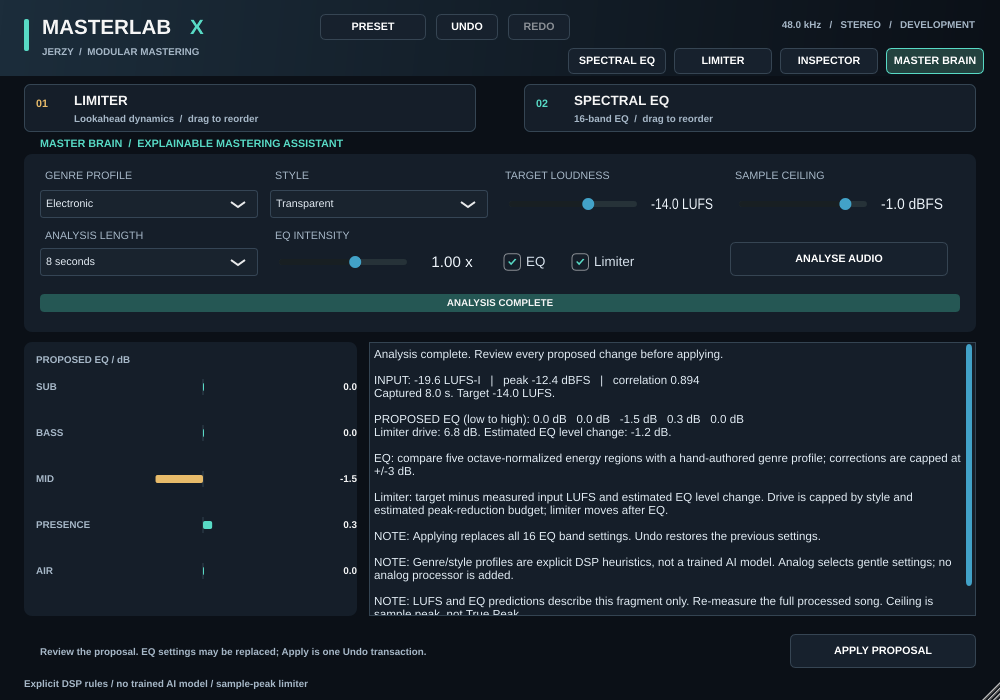
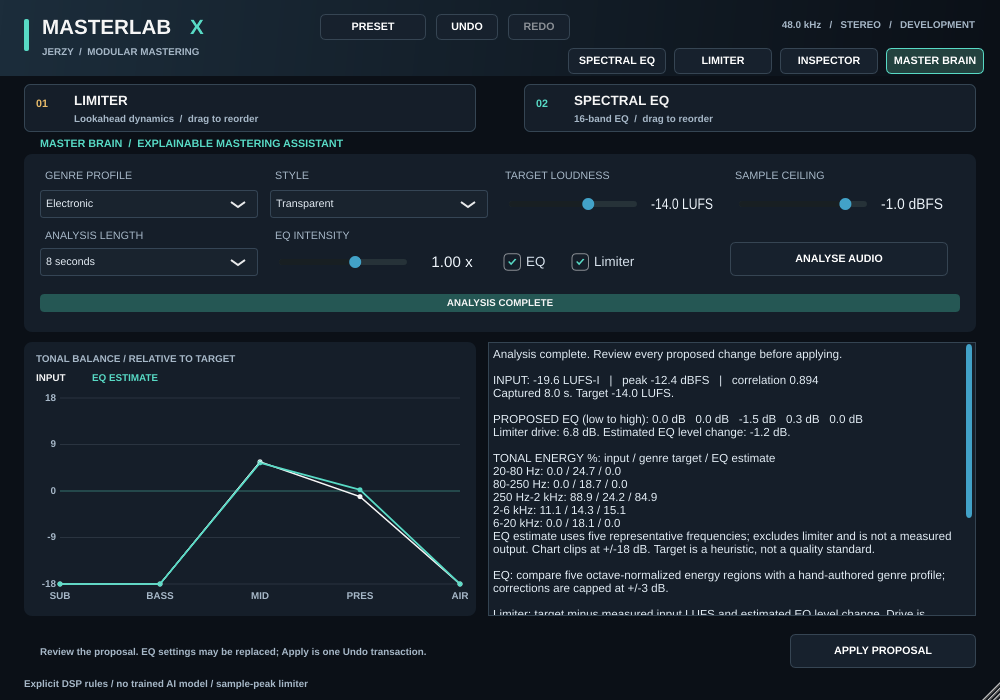
Add measured tonal balance and DSP-verified EQ estimate to Master Brain

diff --git a/Source/Editor.h b/Source/Editor.h
@@ -69,6 +69,12 @@ class Editor final : public juce::AudioProcessorEditor,
             report+="\nINPUT: "+lufsText(f.integrated)+" LUFS-I   |   peak "+dbText(f.peak)+" dBFS   |   correlation "+juce::String(f.correlation,3)+"\n";
             report+="Captured "+juce::String(f.seconds,1)+" s. Target "+juce::String(snapshot.config.targetLufs,1)+" LUFS.\n";
             if(p.valid){report+="\nPROPOSED EQ (low to high): ";for(float gain:p.gains)report+=juce::String(gain,1)+" dB   ";report+="\nLimiter drive: "+juce::String(p.drive,1)+" dB. Estimated EQ level change: "+juce::String(p.eqEstimate,1)+" dB.\n";}
+            if(p.targetShares[0]>0){
+                report+="\nTONAL ENERGY %: input / genre target / EQ estimate\n";
+                constexpr std::array<const char*,5> regions{"20-80 Hz","80-250 Hz","250 Hz-2 kHz","2-6 kHz","6-20 kHz"};
+                for(size_t i=0;i<5;++i)report+=juce::String(regions[i])+": "+juce::String(100*p.shares[i],1)+" / "+juce::String(100*p.targetShares[i],1)+" / "+juce::String(100*p.estimatedShares[i],1)+"\n";
+                report+="EQ estimate uses five representative frequencies; excludes limiter and is not a measured output. Chart clips at +/-18 dB. Target is a heuristic, not a quality standard.\n";
+            }
             for(const auto& line:p.reasons)report+="\n"+juce::String(line)+"\n";
             for(const auto& line:p.warnings)report+="\nNOTE: "+juce::String(line)+"\n";
             if(stale&&snapshot.phase==masterlab::BrainPhase::Ready)report="SETTINGS CHANGED: reanalyse before Apply.\n\n"+report;
@@ -82,19 +88,27 @@ class Editor final : public juce::AudioProcessorEditor,
         g.setColour(juce::Colour(0xff0a1119));g.fillRoundedRectangle(40.f,294.f,getWidth()-80.f,18.f,4.f);
         if(brainProgress>0){g.setColour(accent.withAlpha(.35f));g.fillRoundedRectangle(40.f,294.f,static_cast<float>((getWidth()-80)*brainProgress),18.f,4.f);}
         g.setColour(juce::Colours::whitesmoke);g.setFont(11);g.drawText(brainProgressText,40,294,getWidth()-80,18,juce::Justification::centred);
-        const int cardWidth=std::clamp(getWidth()/3,218,360),cardHeight=getHeight()-426;
+        const int cardWidth=std::clamp(getWidth()/2-48,300,600),cardHeight=getHeight()-426;
         g.setColour(panel);g.fillRoundedRectangle(24.f,342.f,static_cast<float>(cardWidth),static_cast<float>(cardHeight),8.f);
-        g.setColour(muted);g.setFont(11);g.drawText("PROPOSED EQ / dB",36,350,cardWidth-24,20,juce::Justification::left);
-        const bool valid=brainSnapshot.proposal.valid&&(brainSnapshot.phase==masterlab::BrainPhase::Ready||brainSnapshot.phase==masterlab::BrainPhase::Applied)&&brainSnapshot.config.useEq;
+        g.setColour(muted);g.setFont(11);g.drawText("TONAL BALANCE / RELATIVE TO TARGET",36,350,cardWidth-24,18,juce::Justification::left);
+        const bool valid=(brainSnapshot.phase==masterlab::BrainPhase::Ready||brainSnapshot.phase==masterlab::BrainPhase::Applied)&&brainSnapshot.proposal.targetShares[0]>0;
         if(valid){
-            constexpr std::array<const char*,5> names{"SUB","BASS","MID","PRESENCE","AIR"};
-            for(int i=0;i<5;++i){const int y=378+i*(cardHeight-43)/5;const float value=brainSnapshot.proposal.gains[static_cast<size_t>(i)],centre=24.f+83.f+(cardWidth-141.f)/2.f,extent=value*(cardWidth-141.f)/6.f;
-                g.setColour(muted);g.drawText(names[static_cast<size_t>(i)],36,y,66,18,juce::Justification::left);
-                g.setColour(juce::Colour(0xff344452));g.drawLine(centre,y+1.f,centre,y+17.f);
-                g.setColour(value>=0?accent:curve);g.fillRoundedRectangle(std::min(centre,centre+extent),y+5.f,std::max(1.f,std::abs(extent)),8.f,2.f);
-                g.setColour(juce::Colours::whitesmoke);g.drawText(juce::String(value,1),cardWidth-24,y,48,18,juce::Justification::right);
+            g.setColour(juce::Colours::whitesmoke);g.drawText("INPUT",36,370,54,16,juce::Justification::left);
+            g.setColour(accent);g.drawText("EQ ESTIMATE",92,370,94,16,juce::Justification::left);
+            const float left=60.f,right=cardWidth+8.f,top=398.f,bottom=342.f+cardHeight-32.f;
+            auto yFor=[&](double db){return juce::jmap(static_cast<float>(std::clamp(db,-18.,18.)), -18.f,18.f,bottom,top);};
+            for(int db:{-18,-9,0,9,18}){const float y=yFor(db);g.setColour(db==0?accent.withAlpha(.45f):muted.withAlpha(.15f));g.drawLine(left,y,right,y);g.setColour(muted);g.drawText(juce::String(db),30,static_cast<int>(y)-7,26,14,juce::Justification::right);}
+            juce::Path measured,estimated;
+            constexpr std::array<const char*,5> names{"SUB","BASS","MID","PRES","AIR"};
+            for(size_t i=0;i<5;++i){const float x=left+(right-left)*static_cast<float>(i)/4.f;const auto& proposal=brainSnapshot.proposal;
+                const double target=std::max(1e-20f,proposal.targetShares[i]);
+                const float measuredY=yFor(10*std::log10(std::max(1e-20f,proposal.shares[i])/target)),estimatedY=yFor(10*std::log10(std::max(1e-20f,proposal.estimatedShares[i])/target));
+                if(i==0){measured.startNewSubPath(x,measuredY);estimated.startNewSubPath(x,estimatedY);}else{measured.lineTo(x,measuredY);estimated.lineTo(x,estimatedY);}
+                g.setColour(juce::Colours::whitesmoke);g.fillEllipse(x-2.5f,measuredY-2.5f,5.f,5.f);g.setColour(accent);g.fillEllipse(x-2.5f,estimatedY-2.5f,5.f,5.f);
+                g.setColour(muted);g.drawText(names[i],static_cast<int>(x)-21,static_cast<int>(bottom)+5,42,14,juce::Justification::centred);
             }
-        }else{g.setColour(muted);g.drawFittedText(brainSnapshot.config.useEq?"Awaiting analysis":"Current EQ preserved",36,382,cardWidth-24,cardHeight-48,juce::Justification::centred,2);}
+            g.setColour(juce::Colours::whitesmoke);g.strokePath(measured,juce::PathStrokeType(1.5f));g.setColour(accent);g.strokePath(estimated,juce::PathStrokeType(1.8f));
+        }else{g.setColour(muted);g.drawFittedText("Play audio and analyse to measure five frequency regions.",36,382,cardWidth-24,cardHeight-48,juce::Justification::centred,3);}
         g.setColour(muted);g.setFont(11);g.drawText("Review the proposal. EQ settings may be replaced; Apply is one Undo transaction.",40,getHeight()-66,getWidth()-280,36,juce::Justification::left);
         g.drawText("Explicit DSP rules / no trained AI model / sample-peak limiter",24,getHeight()-25,getWidth()-48,18,juce::Justification::left);
     }
@@ -384,7 +398,7 @@ public:
         for(int i=0;i<4;++i)brainLabels[static_cast<size_t>(i)].setBounds(40+i*brainCell,166,brainCell-12,20);
         brainGenre.setBounds(40,190,brainCell-12,28);brainStyle.setBounds(40+brainCell,190,brainCell-12,28);brainTarget.setBounds(40+2*brainCell,190,brainCell-12,28);brainCeiling.setBounds(40+3*brainCell,190,brainCell-12,28);
         brainLabels[4].setBounds(40,226,brainCell-12,20);brainLabels[5].setBounds(40+brainCell,226,brainCell-12,20);brainDuration.setBounds(40,248,brainCell-12,28);brainIntensity.setBounds(40+brainCell,248,brainCell-12,28);
-        brainEq.setBounds(40+2*brainCell,248,64,28);brainLimiter.setBounds(108+2*brainCell,248,brainCell-80,28);brainAnalyse.setBounds(40+3*brainCell,242,brainCell-12,34);const int resultWidth=std::clamp(getWidth()/3,218,360);brainReport.setBounds(36+resultWidth,342,getWidth()-60-resultWidth,getHeight()-426);brainApply.setBounds(getWidth()-210,getHeight()-66,186,34);
+        brainEq.setBounds(40+2*brainCell,248,64,28);brainLimiter.setBounds(108+2*brainCell,248,brainCell-80,28);brainAnalyse.setBounds(40+3*brainCell,242,brainCell-12,34);const int resultWidth=std::clamp(getWidth()/2-48,300,600);brainReport.setBounds(36+resultWidth,342,getWidth()-60-resultWidth,getHeight()-426);brainApply.setBounds(getWidth()-210,getHeight()-66,186,34);
         const int top=getHeight()-163,width=(getWidth()-64)/4;
         for(int i=0;i<4;++i){auto* label=std::array<juce::Label*,4>{&frequencyLabel,&gainLabel,&qualityLabel,&ceilingLabel}[i];auto* slider=std::array<juce::Slider*,4>{&frequency,&gain,&quality,&ceiling}[i];label->setBounds(32+i*width,top,width-12,22);slider->setBounds(32+i*width,top+22,width-16,113);}
         driveLabel.setBounds(32,top,width-12,22);drive.setBounds(32,top+22,width-16,113);

diff --git a/tests/BrainRulesTests.cpp b/tests/BrainRulesTests.cpp
@@ -20,5 +20,25 @@ int main(){
  invalid=f;invalid.integrated=-8;check(masterlab::proposeMastering(invalid,c).drive==0,"loud input creates additional drive");
  invalid=f;invalid.correlation=-1;invalid.clips=100;check(masterlab::proposeMastering(invalid,c).warnings.size()>=4,"phase and clipping warnings missing");
  c.useEq=false;c.existingEqEnabled=false;auto flat=masterlab::proposeMastering(f,c);c.existingEqEnabled=true;c.existingEq[0].gain=6;auto coloured=masterlab::proposeMastering(f,c);check(coloured.eqEstimate>flat.eqEstimate,"preserved EQ omitted from level estimate");
+ // Validate tonal estimates against rendered sine energy, independently of magnitude().
+ for(double rate:{44100.,48000.,96000.,192000.}){
+  c={};c.useLimiter=false;f.rate=rate;const auto proposal=masterlab::proposeMastering(f,c);
+  double inputSum=0,targetSum=0,estimateSum=0;for(size_t i=0;i<5;++i){inputSum+=proposal.shares[i];targetSum+=proposal.targetShares[i];estimateSum+=proposal.estimatedShares[i];}
+  check(std::abs(inputSum-1)<1e-6&&std::abs(targetSum-1)<1e-6&&std::abs(estimateSum-1)<1e-6,"tonal energy shares are not normalized");
+  std::array<double,5> energies{};double renderedSum=0;
+  constexpr std::array<double,5> centres{40,140,700,3500,11000};
+  for(size_t region=0;region<5;++region){
+   std::array<masterlab::Biquad,5> filters;
+   for(size_t band=0;band<5;++band){const auto suffix=std::to_string(band+1),parameterSuffix=band? suffix:std::string{};
+    filters[band].configure(rate,value(proposal,"frequency"+parameterSuffix),value(proposal,"gain"+parameterSuffix),value(proposal,"q"+parameterSuffix),static_cast<masterlab::FilterType>(static_cast<int>(value(proposal,"bandType"+suffix))));}
+   double input=0,output=0;const int samples=static_cast<int>(rate);
+   for(int i=0;i<samples*2;++i){const float signal=static_cast<float>(.1*std::sin(6.283185307179586*centres[region]*i/rate));float processed=signal;
+    for(size_t band=0;band<5;++band)if(value(proposal,"bandEnabled"+std::to_string(band+1))>0)processed=filters[band].tick(processed);
+    if(i>=samples){input+=signal*signal;output+=processed*processed;}}
+   energies[region]=f.energy[region]*output/input;renderedSum+=energies[region];
+  }
+  for(size_t i=0;i<5;++i)check(std::abs(energies[i]/renderedSum-proposal.estimatedShares[i])<.0002,"EQ tonal estimate differs from rendered filter energy");
+  c.useEq=false;c.existingEqEnabled=false;const auto unchanged=masterlab::proposeMastering(f,c);for(size_t i=0;i<5;++i)check(std::abs(unchanged.shares[i]-unchanged.estimatedShares[i])<1e-6,"excluded flat EQ changes predicted balance");
+ }
  std::cout<<"Passed: 108 profile/style/intensity cases, finite unique settings, caps, excluded modules, silence/short/NaN rejection, existing EQ, clipping and phase warnings\n";
 }

diff --git a/Source/BrainRules.h b/Source/BrainRules.h
@@ -16,7 +16,7 @@ struct BrainFeatures {
 };
 struct BrainProposal {
  bool valid=false;std::vector<std::pair<std::string,float>> changes;
- std::array<float,5> gains{},shares{};float drive=0,eqEstimate=0;
+ std::array<float,5> gains{},shares{},targetShares{},estimatedShares{};float drive=0,eqEstimate=0;
  std::vector<std::string> reasons,warnings;
 };
 inline constexpr std::array<const char*,9> brainGenres{"Rock","Punk","Post-Punk","Dark Wave","Electronic","Techno","Ambient","Pop","Acoustic"};
@@ -37,7 +37,7 @@ inline BrainProposal proposeMastering(const BrainFeatures& f,BrainConfig config)
  const std::array<float,5> frequencies{70,180,800,3500,9000},qualities{.7071f,.8f,.65f,.7f,.7071f};
  const std::array<int,5> types{1,0,0,0,2};
  for(size_t i=0;i<5;++i){
-  double desired=target[i]/totalTarget;
+  double desired=target[i]/totalTarget;p.targetShares[i]=static_cast<float>(desired);
   if(p.shares[i]>1e-5&&desired>1e-5){double deviation=10*std::log10(p.shares[i]/desired);float correction=std::abs(deviation)>1?static_cast<float>(-.35*deviation):0;
    const float styleScale=std::array<float,4>{.75f,.85f,1.f,.65f}[c.style];p.gains[i]=std::clamp(correction*c.intensity*styleScale,-3.f,3.f);
   }
@@ -54,13 +54,16 @@ inline BrainProposal proposeMastering(const BrainFeatures& f,BrainConfig config)
  const std::array<double,5> centres{40,140,700,3500,11000};double predicted=0;float positiveBoost=0;
  for(size_t region=0;region<5;++region){double amplitude=1;
   for(size_t band=0;band<(c.useEq?5:16);++band){
+   if(c.useEq&&std::abs(p.gains[band])<=.01f)continue;
    if(!c.useEq&&(!c.existingEqEnabled||!c.existingEq[band].enabled))continue;
    Biquad filter;float gain=c.useEq?p.gains[band]:c.existingEq[band].gain;
    filter.configure(f.rate,c.useEq?frequencies[band]:c.existingEq[band].frequency,gain,c.useEq?qualities[band]:c.existingEq[band].q,static_cast<FilterType>(c.useEq?types[band]:c.existingEq[band].type));
    amplitude*=filter.magnitude(f.rate,std::min(centres[region],f.rate*.45));positiveBoost=std::max(positiveBoost,std::max(0.f,gain));
   }
-  predicted+=f.energy[region]*amplitude*amplitude;
+  const double regionEnergy=f.energy[region]*amplitude*amplitude;
+  p.estimatedShares[region]=static_cast<float>(regionEnergy/sum);predicted+=regionEnergy;
  }
+ for(auto& share:p.estimatedShares)share=static_cast<float>(share/(predicted/sum));
  p.eqEstimate=static_cast<float>(10*std::log10(std::max(1e-20,predicted/sum)));
  if(c.useLimiter){
   const float wanted=c.targetLufs-f.integrated-p.eqEstimate;

diff --git a/tests/GuiSmoke.h b/tests/GuiSmoke.h
@@ -105,7 +105,7 @@ class GuiSmoke final : private juce::Timer {
         }
         auto* brain=dynamic_cast<juce::Button*>(editor->findChildWithID("view-brain"));auto* apply=dynamic_cast<juce::Button*>(editor->findChildWithID("brain-apply"));auto* report=dynamic_cast<juce::TextEditor*>(editor->findChildWithID("brain-report"));
         if(!brain||!apply||!report)return false;brain->onClick();
-        if(!apply->isEnabled()||!report->getText().contains("PROPOSED EQ")){std::cerr<<report->getText()<<'\n';return false;}
+        if(!apply->isEnabled()||!report->getText().contains("PROPOSED EQ")||!report->getText().contains("TONAL ENERGY %")){std::cerr<<report->getText()<<'\n';return false;}
         for(int i=0;i<processor.getParameters().size();++i)if(processor.getParameters()[i]->getValue()!=brainBefore[static_cast<size_t>(i)])return false;
         for(auto size:{juce::Point<int>(750,550),juce::Point<int>(1000,700),juce::Point<int>(2000,1400)}){
             editor->setSize(size.x,size.y);if(!controlsFit())return false;auto image=editor->createComponentSnapshot(editor->getLocalBounds());if(!image.isValid())return false;

diff --git a/OZONE12_REVIEW.md b/OZONE12_REVIEW.md
@@ -187,3 +187,11 @@ Oceny typu „najlepszy”, „naturalny” i „muzycznie brzmiący” należą
 | 6 | Stem Processor i rekonstrukcja dynamiki | Najpierw wykonalność, licencja modelu, koszt obliczeń i jawne testy artefaktów; osobne procesory z własnymi kryteriami |
 
 Obecny Master Brain realizuje pomiar fragmentu i zatwierdzane heurystyki EQ/limitera. Nie realizuje pełnego Master Assistant Ozone, dopasowania szerokości/dynamiki, korekcji wokalu, Stem EQ ani nauczonego modelu.
+
+## Pełne napisy filmu producenta
+
+Przeczytano cały przesłany plik angielskich napisów „What's new in Ozone 12, your complete mastering suite”. Potwierdza on: separację źródeł w czasie rzeczywistym w Stem EQ; progi, Punch, Balance i wskaźniki sweet spot w Bass Control; sieci neuronowe do tworzenia transjentów w Unlimiter; nowy tryb IRC5; Custom Flow z wyborem gatunków/ulubionych lub profilu z referencji, celu LUFS, modułów, intensywności, czasu analizy oraz zapisu konfiguracji domyślnej. Po analizie można edytować łańcuch z widoku asystenta i modułów.
+
+Deklaracje producenta o braku pompowania/zniekształceń i „odzyskaniu” transjentów są marketingiem, nie gwarancją dla każdego sygnału. Nie ujawniają algorytmu IRC5 ani wag modeli. MasterLab X nie wykorzystuje ich nazw do oznaczania własnego DSP. Docelowa rekonstrukcja transjentów będzie tworzyć estymatę; nie odwróci matematycznie nieodwracalnego ograniczania.
+
+Konkretny krok implementacyjny po analizie obu filmów: Master Brain pokazuje zmierzony udział energii pięciu regionów, jawny profil docelowy gatunku oraz przybliżony balans po proponowanym EQ. Target pochodzi z tych samych reguł co propozycja; wykres nie ma imitować szczegółowej krzywej spektralnej, której obecny pomiar nie dostarcza.

diff --git a/MASTER_BRAIN.md b/MASTER_BRAIN.md
@@ -17,3 +17,9 @@ Ustawienia i raport analizy są tymczasowe. Zatwierdzone parametry DSP zapisują
 ## Walidacja
 
 Testy obejmują kombinacje gatunków/stylów/intensywności, granice korekcji, wykluczenie modułów, ciszę i błędne dane. Test procesora sprawdza rzeczywiste osiem sekund analizy, brak automatycznych zmian, brak alokacji C++ w callback podczas zbierania, odrzucenie nieaktualnej propozycji, Apply/Undo, anulowanie i przepełnienie. Test GUI otwiera panel w trzech rozmiarach, zatwierdza i cofa propozycję. Nie wykonano testu FL Studio ani porównania brzmieniowego z Ozone.
+
+## Graficzny balans tonalny
+
+Panel wyników pokazuje pięć zmierzonych udziałów energii względem celu gatunkowego (0 dB). Biała linia to wejście; turkusowa to **EQ ESTIMATE**, czyli przybliżenie po EQ obliczone z rzeczywistych charakterystyk filtrów w pięciu częstotliwościach reprezentatywnych. To nie pomiar przetworzonego wyjścia i nie uwzględnia limitera. Udziały są ponownie normalizowane do całkowitej energii analizowanych regionów. Szczegółowy raport zawiera procenty wejścia/celu/estymaty oraz korekty EQ. Przy EQ wykluczonym estymata uwzględnia zachowany korektor.
+
+Oś ma zakres ±18 dB i przycina odchylenia poza skalą; liczby w raporcie pozostają dostępne. Pięć punktów oznacza szerokie regiony (20–80, 80–250, 250–2000, 2000–6000, 6000–20000 Hz), nie pełną krzywą FFT. Profil docelowy jest heurystyką estetyczną, nie wzorcem jakości. Po Apply trzeba zmierzyć i odsłuchać pełne wyjście. Testy porównują estymowane udziały z energią sinusów faktycznie przepuszczonych przez proponowane filtry przy 44,1/48/96/192 kHz.

diff --git a/RELEASE_NOTES.md b/RELEASE_NOTES.md
@@ -31,3 +31,5 @@ Master Brain: zaimplementowano analizę wejścia poza callback, regułowe propoz
 Walidacja Master Brain w Linux: Release VST3, CTest 15/15, rdzeń ASan/UBSan 9/9, rzeczywisty test GUI (otwieranie, trzy rozmiary, analiza/Apply/Undo), pluginval strictness 5 — zaliczone. Build Windows jest weryfikowany oddzielnie w Actions.
 
 Potwierdzony Windows/MSVC dla `144aa41`: workflow `39221591050` zakończony sukcesem, wraz z testami DSP, GUI i pluginval 1.0.3. Wygenerowany artefakt `JerzyMasterLabX-v0.1.0-Windows-x64` (ID `12172186866`, 3 304 975 bajtów). To rozwojowa paczka VST3 z Master Brain, nie wydanie o pełnym zakresie Ozone. Brak testu FL Studio i porównania brzmieniowego.
+
+Master Brain — balans tonalny: dodano wykres wejścia względem celu gatunkowego oraz estymatę wpływu EQ z rzeczywistych charakterystyk filtrów, liczby energii w raporcie i test zgodności z renderowanymi sinusami przy czterech sample rates. Wykres pokazuje pięć regionów, nie pełną krzywą widmową; estymata nie obejmuje limitera. Linux Release VST3, CTest 15/15, GUI w trzech rozmiarach i pluginval strictness 5 zaliczone. Zaktualizowano analizę pełnych napisów obu filmów.
